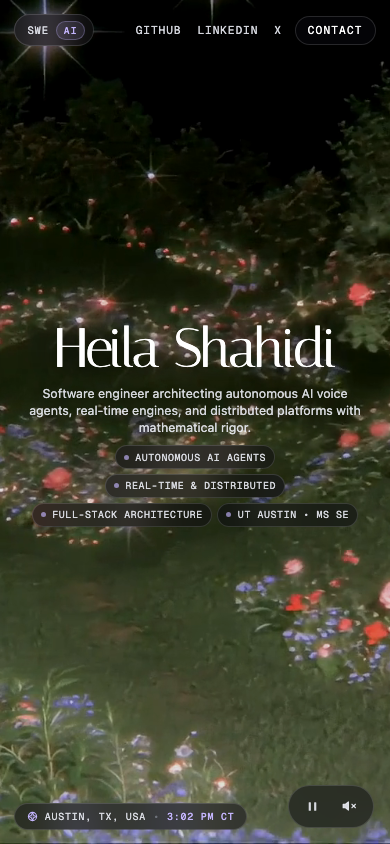
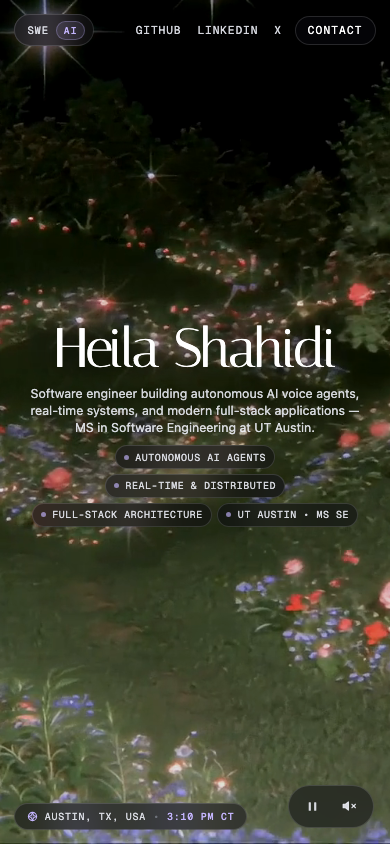
feat: refine hero bio to reflect current role and engineering experience

Changed region(s): [[0.0615, 0.4621, 0.9231, 0.5237], [0.4615, 0.955, 0.4923, 0.9858]]

diff --git a/app/competencies.tsx b/app/competencies.tsx
@@ -239,8 +239,8 @@ export default function Competencies() {
   return (
     <div {...stylex.props(styles.container)}>
       <p {...stylex.props(styles.bioStatement)}>
-        Software engineer architecting autonomous AI voice agents, real-time engines, and
-        distributed platforms with mathematical rigor.
+        Software engineer building autonomous AI voice agents, real-time systems, and modern
+        full-stack applications — MS in Software Engineering at UT Austin.
       </p>
 
       <div
